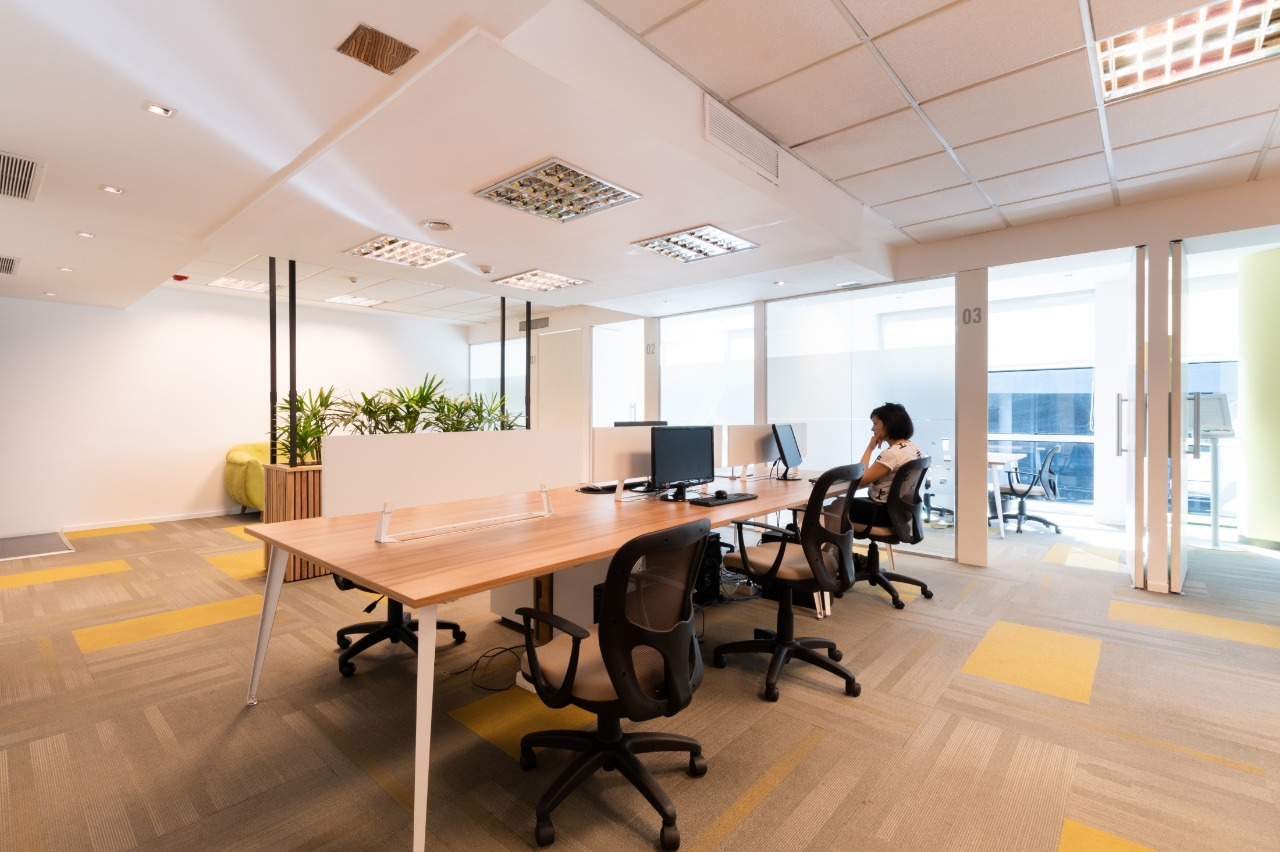
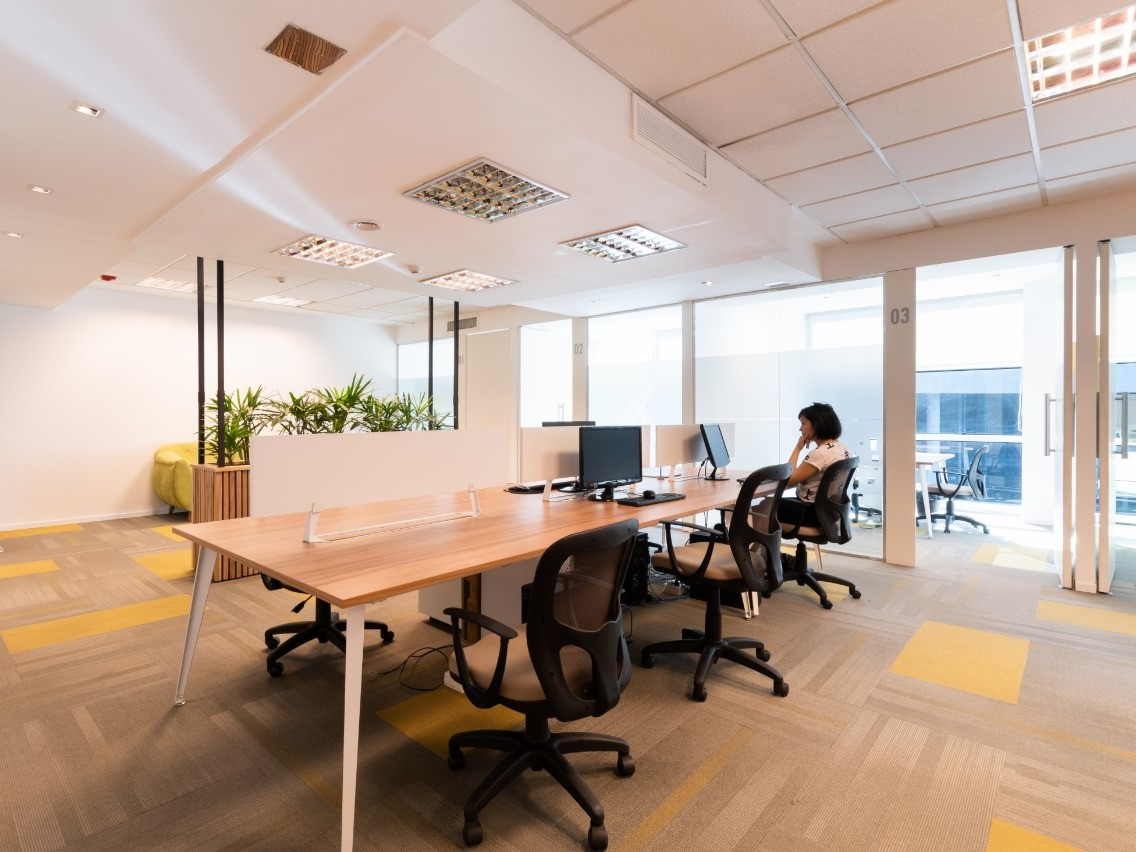
cambios

diff --git a/public/web/assets/css/templatemo-villa-agency.css b/public/web/assets/css/templatemo-villa-agency.css
@@ -1276,7 +1276,21 @@ Properties Style
   color: #42BC5A;
 }
 
+.btn__properties a{
+  background-color: #1e1e1e;
+  color: white;
+  padding: 6px 9px;
+  border-radius: 4px;
+  transition: ease-in-out .3s;
+  font-size: 17px;
+}
 
+.btn__properties a:hover{
+  background-color: #42BC5A;
+  color: white;
+  border-radius: 4px;
+  transition: ease-in-out .3s;
+}
 
 
 

diff --git a/resources/views/web/index.blade.php b/resources/views/web/index.blade.php
@@ -2,7 +2,7 @@
 @section("banner")
 
 
-<div class="properties section">
+<div class="properties mt-4" >
   <div class="container">
     <div>
       <form action="{{ url()->current() }}" method="GET">
@@ -49,12 +49,12 @@
       <div class="row properties__box">
         <div class="col-lg-4 col-12 p-0">
           <div class="propertie__img p-0">
-            <a <?php echo "href=/propiedad-detallada/$propiedadmayormenor->idpropiedad" ?>><img style="width: 412px; height: 267px;" src="/files/{{ $propiedadmayormenor->imagen; }}" alt=""></a>
+            <a <?php echo "href=/propiedad-detallada/$propiedadmayormenor->idpropiedad" ?>><img style="max-width: 412px; max-height: 267px;" src="/files/{{ $propiedadmayormenor->imagen; }}" alt=""></a>
           </div>
         </div>
         <div class="col-lg-8 col-12 py-4">
           <div class="propertie__info">
-            <div class="p-1 pb-0 pt-0">
+            <div class="p-1 pt-0 pb-0">
               <h6 style="font-size: 22px;">${{ number_format($propiedadmayormenor->precio, 0, ',', '.') }}</h6>
             </div>
             <div class="p-1 pt-0">
@@ -69,7 +69,11 @@
               <li class="p-0 m-0 col-4 col-lg-8"><i class="fa-solid fa-arrows-up-down-left-right"></i> {{ $propiedadmayormenor->areapropiedad }}m<sup>2</sup></li>
             </ul>
             <div class="p-1">
-              <div class="col-12"><span>{{ $propiedadmayormenor->descripcion }}</span></div>
+              <div class="col-12"><span>{{ str_limit($propiedadmayormenor->descripcion, $limit = 150, $end = '...') }}</span></div>
+            </div>
+            <div class="btn__properties m-0 pt-3">
+              <a href="/propiedad-detallada/{{ $propiedadmayormenor->idpropiedad }}"></i> ver propiedad</a>
+              <a  href="https://web.whatsapp.com/" target="_blank"></i><i class="fa-brands fa-whatsapp"></i> whatsapp</a>
             </div>
           </div>
         </div>
@@ -84,7 +88,7 @@
       <div class="row properties__box">
         <div class="col-lg-4 col-12 p-0">
           <div class="propertie__img p-0">
-            <a <?php echo "href=/propiedad-detallada/$propiedadmenormayor->idpropiedad" ?>><img style="width: 412px; height: 267px;" src="/files/{{ $propiedadmenormayor->imagen; }}" alt=""></a>
+            <a <?php echo "href=/propiedad-detallada/$propiedadmenormayor->idpropiedad" ?>><img style="max-width: 412px; max-height: 267px;" src="/files/{{ $propiedadmenormayor->imagen; }}" alt=""></a>
           </div>
         </div>
         <div class="col-lg-8 col-12 py-4">
@@ -104,7 +108,11 @@
               <li class="p-0 m-0 col-4 col-lg-8"><i class="fa-solid fa-arrows-up-down-left-right"></i> {{ $propiedadmenormayor->areapropiedad }}m<sup>2</sup></li>
             </ul>
             <div class="p-1">
-              <div class="col-12"><span>{{ $propiedadmenormayor->descripcion }}</span></div>
+              <div class="col-12"><span>{{ str_limit($propiedadmenormayor->descripcion, $limit = 150, $end = '...') }}</span></div>
+            </div>
+            <div class="btn__properties m-0 pt-3">
+              <a href="/propiedad-detallada/{{ $propiedadmenormayor->idpropiedad }}"></i> ver propiedad</a>
+              <a  href="https://web.whatsapp.com/" target="_blank"></i><i class="fa-brands fa-whatsapp"></i> whatsapp</a>
             </div>
           </div>
         </div>

diff --git a/resources/views/web/propiedad-detallada.blade.php b/resources/views/web/propiedad-detallada.blade.php
@@ -23,7 +23,7 @@
           </div>
         </div>
         <div class="main-content">
-          <span class="category mt-0">{{ $producto->direccion }} | {{ $producto->ciudad }} | {{ $producto->pais }}</span>
+          <span class="category mt-0">{{ $producto->direccion }} | {{ $producto->ciudad }} | {{ $producto->pais }}</span><button style="height:34px; background:#1e1e1e; color:#fff;" onclick="copiarEnlace()"><i class="fa-solid fa-link"></i></button>
           <h4> {{ $producto->titulo }} </h4>
           <p style="font-size: 1.1em; width: 95%;"> {{ $producto->descripcion }} </p>
         </div>
@@ -62,4 +62,15 @@
   </div>
 </div>
 
+<script>
+  function copiarEnlace() {
+    var tempInput = document.createElement('input');
+    tempInput.value = window.location.href;
+    document.body.appendChild(tempInput);
+    tempInput.select();
+    document.execCommand('copy');
+    document.body.removeChild(tempInput);
+    alert('¡Enlace copiado al portapapeles!');
+  }
+</script>
 @endsection

diff --git a/resources/views/web/nosotros.blade.php b/resources/views/web/nosotros.blade.php
@@ -1,19 +1,10 @@
 @extends("web.plantilla")
 @section("banner")
 
-<div class="page-heading header-text">
-  <div class="container">
-    <div class="row">
-      <div class="col-lg-12">
-        <span class="breadcrumb"><a href="/">Inicio</a> / Nosotros</span>
-        <h3>Nosotros</h3>
-      </div>
-    </div>
-  </div>
-</div>
+
 @endsection
 @section("contenido")
-<div class="featured section py-5">
+<div class="featured py-5">
     <div class="container">
       <div class="row">
         <div class="col-lg-4">
@@ -24,7 +15,7 @@
         </div>
         <div class="col-lg-8">
           <div class="section-heading mb-2">
-            <h6>| Acerca de</h6>
+            <h6>| Acerca de Terranova</h6>
             <h2>Expertos en asesoramiento inmobiliario</h2>
           </div>
           <div class="px-3">

diff --git a/resources/views/sistema/propiedad-nuevo.blade.php b/resources/views/sistema/propiedad-nuevo.blade.php
@@ -84,7 +84,7 @@ if (isset($msg)) {
                   </div>
                   <div class="form-group col-6">
                         <label>area de la propiedad: *</label>
-                        <input type="text" id="txtAreaPropiedad" name="txtAreaPropiedad" class="form-control" value="{{ $producto->areapropiedad }}" required>
+                        <input type="number" id="txtAreaPropiedad" name="txtAreaPropiedad" class="form-control" value="{{ $producto->areapropiedad }}" required>
                   </div>
                   <div class="form-group col-6">
                         <label>Descripción: *</label>
